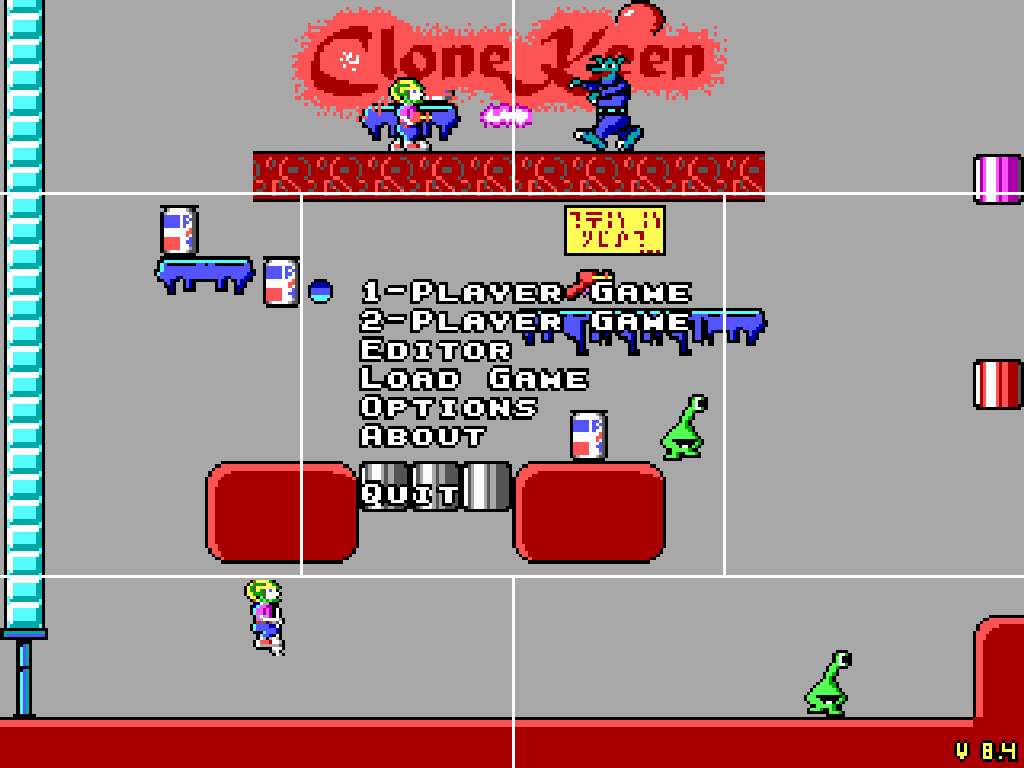
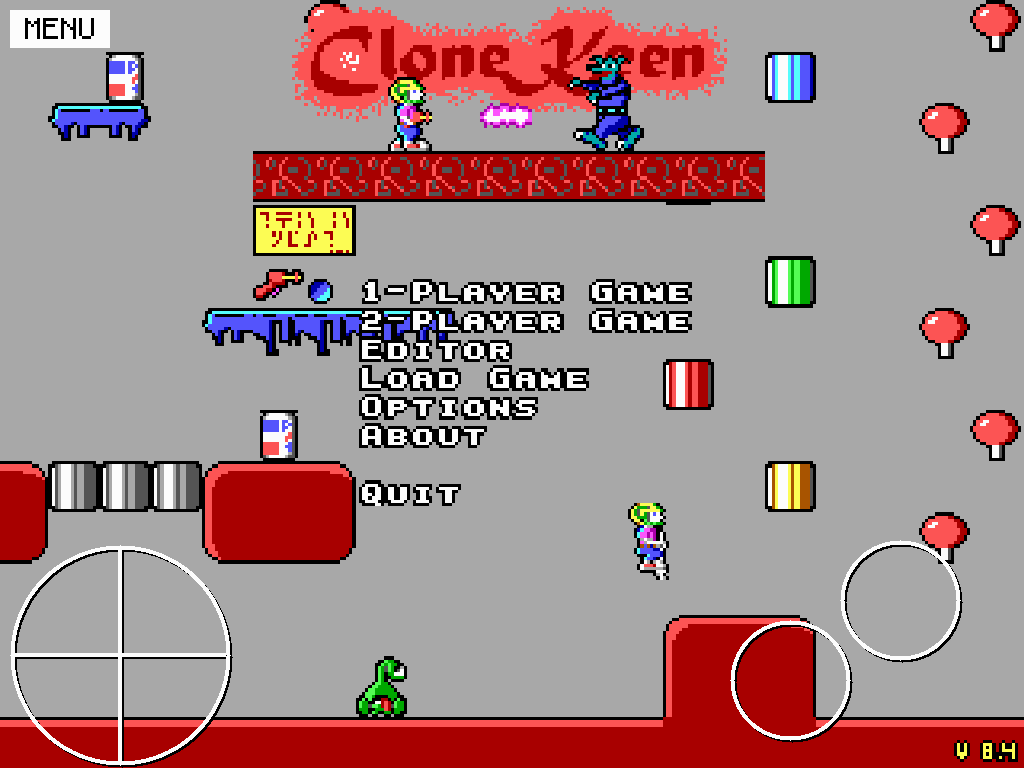
update docs

diff --git a/README.md b/README.md
@@ -1,0 +1,221 @@
+# Commander Keen: Invasion of the Vorticons — HP TouchPad Port
+
+A port of [CloneKeen](https://sourceforge.net/projects/clonekeen/) (the open-source SDL remake of Commander Keen episodes 1–3) to the HP TouchPad running webOS 3.0.5. All three episodes are playable with multi-touch d-pad controls.
+
+---
+
+## Repository Layout
+
+```
+clonekeen/          CloneKeen source — the primary work
+  src/              Game source code
+    platform/       Platform entry points; webos.cpp is the webOS main()
+    sdl/            SDL drivers: keydrv.c (touch input), viddrv.c (rendering)
+  build/webos/      Build and packaging scripts for webOS
+    build-webos.sh  Cross-compile script
+    package-webos.sh  Assemble IPK
+    webos-pkg/      IPK metadata (appinfo.json, CONTROL/)
+    fbuild/webos/   Compiled binary output (generated)
+keen/               Original Keen Dreams Borland C source — reference only
+sdl-sopwith-webos/  Reference webOS PDK app — build structure reference only
+```
+
+---
+
+## Target Platform
+
+| | |
+|---|---|
+| **Device** | HP TouchPad (2011) |
+| **OS** | webOS 3.0.5 (Linux/ARM, kernel 2.6.35) |
+| **CPU** | Qualcomm Snapdragon APQ8060, dual-core Cortex-A8 |
+| **Display** | 1024×768 IPS, landscape |
+| **SDK** | HP webOS PDK — SDL 1.2, SDL_mixer, PDL (`libpdl.so`) |
+
+---
+
+## Build Prerequisites
+
+### 1. Linaro ARM Toolchain
+
+Linaro GCC 4.9.4 for `arm-linux-gnueabi`.
+
+Download from [releases.linaro.org](https://releases.linaro.org/archive/14.09/components/toolchain/binaries/) and unpack somewhere convenient (e.g. `~/linaro-toolchain/`).
+
+Verify: `arm-linux-gnueabi-gcc --version`
+
+Update `TOOLCHAIN_BIN` in `build-webos.sh` if your path differs from `/home/jonwise/linaro-toolchain/bin`.
+
+### 2. HP webOS PDK
+
+The Palm Development Kit provides the device-side SDL 1.2, SDL_mixer, and PDL headers and ARM libraries.
+
+Default install path: `/opt/PalmPDK/`
+
+Key paths used by the build:
+- Headers: `$PDK/include/` and `$PDK/include/SDL/`
+- ARM libraries: `$PDK/device/lib/` (`libSDL.so`, `libSDL_mixer.so`, `libpdl.so`)
+
+### 3. CloneKeen Game Data
+
+The bundled shareware data (episode 1) ships inside the IPK. Extract it before packaging:
+
+```bash
+cd clonekeen
+unzip Releases/Linux/clonekeen-linux.zip -d gamedata-extracted/ -x keen
+```
+
+The packaging script copies everything from `gamedata-extracted/` into the IPK, including the `data/`, `gfx/`, and `custom/` directories.
+
+### 4. novacom (deploy only)
+
+`novacom` is included with the PDK. Used to push files to the TouchPad over USB.
+
+---
+
+## Building and Packaging
+
+```bash
+cd clonekeen/build/webos
+
+# Edit paths if needed
+nano build-webos.sh   # set TOOLCHAIN_BIN and PDK
+
+# Compile
+bash build-webos.sh
+
+# Assemble IPK
+bash package-webos.sh
+```
+
+Output: `clonekeen/build/webos/com.cmdrkeen.game_<version>_armv7.ipk`
+
+The version is read automatically from `webos-pkg/appinfo.json` — bump it there and the IPK filename follows.
+
+**Incremental builds:** `build-webos.sh` skips unchanged `.c` files. Run `rm -rf fbuild/` for a clean build.
+
+---
+
+## Deploying to the TouchPad
+
+Connect the TouchPad via USB with Developer Mode enabled (tap the version number in *Device Info* five times).
+
+```bash
+# Push IPK to device storage
+novacom put file:///media/internal/com.cmdrkeen.game_1.2.0_armv7.ipk \
+    < com.cmdrkeen.game_1.2.0_armv7.ipk
+
+# Install
+novacom run file:///usr/bin/ipkg install \
+    /media/internal/com.cmdrkeen.game_1.2.0_armv7.ipk
+```
+
+The app installs to `/media/cryptofs/apps/usr/palm/applications/com.cmdrkeen.game/`.
+
+### Reading the log
+
+```bash
+novacom run file:///bin/cat \
+    /media/cryptofs/apps/usr/palm/applications/com.cmdrkeen.game/ck.log
+```
+
+You can also launch directly from a novacom shell for live console output:
+
+```bash
+novacom open tty://
+cd /media/cryptofs/apps/usr/palm/applications/com.cmdrkeen.game
+./clonekeen
+```
+
+---
+
+## Commercial Episode Data
+
+The bundled IPK contains only the episode 1 shareware files. To play episodes 2 and 3 you need the original game data files from a legitimate copy of Commander Keen: Invasion of the Vorticons.
+
+### Required files
+
+Place these files in `/media/internal/keen/` on the TouchPad:
+
+| File | Episode |
+|---|---|
+| `EGAHEAD.CK2`, `EGALATCH.CK2`, `EGASPRIT.CK2` | Episode 2 graphics |
+| `EGAHEAD.CK3`, `EGALATCH.CK3`, `EGASPRIT.CK3` | Episode 3 graphics |
+| `LEVEL01.CK2` – `LEVEL16.CK2`, `LEVEL80.CK2`, `LEVEL81.CK2`, `LEVEL90.CK2` | Episode 2 levels |
+| `LEVEL01.CK3` – `LEVEL16.CK3`, `LEVEL80.CK3`, `LEVEL81.CK3`, `LEVEL90.CK3` | Episode 3 levels |
+| `FINALE.CK2`, `FINALE.CK3` | Ending screens |
+
+> **Note on sounds:** The Vorticons trilogy shared one sound engine across all three episodes. `sounds.ck2` and `sounds.ck3` stub files are bundled with CloneKeen in the app's `data/` directory. You do not need `SOUNDS.CK2` or `SOUNDS.CK3` from the original game.
+
+### Pushing files to the device
+
+```bash
+novacom put file:///media/internal/keen/EGAHEAD.CK2 < EGAHEAD.CK2
+novacom put file:///media/internal/keen/EGALATCH.CK2 < EGALATCH.CK2
+# ... repeat for each file
+```
+
+### How the data directory works
+
+At startup, episode 1 always loads from the bundled `data/` directory inside the app (the shareware files). When the player selects episode 2 or 3, `Load_Episode()` in `misc.c` checks at runtime whether `/media/internal/keen/` exists:
+
+- **Directory exists** → episode loads from `/media/internal/keen/`
+- **Directory absent** → falls back to `data/` (episode will fail gracefully if commercial files are missing there)
+
+This means episode 1 shareware always works out of the box, and commercial content is opt-in by placing files on the user-writable `/media/internal` partition.
+
+---
+
+## Architecture Notes
+
+### Rendering
+
+CloneKeen renders into an 8-bit palettized 320×240 SDL surface (`webos_game_surface`). Each frame, `SDL_SoftStretch` scales it to the 1024×768 screen surface, then the touch control overlay is drawn on top, and `SDL_Flip()` presents it. Scale factor is exactly 3.2× (320×3.2 = 1024, 240×3.2 = 768 — no letterboxing).
+
+### Touch Controls
+
+SDL 1.2 on webOS delivers multi-touch as mouse button/motion events. The webOS PDK extends the standard SDL event fields so that `event.button.which` and `event.motion.which` carry the finger index (0–4). `keydrv.c` maintains a per-finger state struct (`WebOSFinger`) tracking which zone each finger is in, which directional keys it's holding, and a 150ms minimum-hold timer to prevent tap-release races.
+
+**Control layout on the 1024×768 screen:**
+
+```
+┌────────────────────────────────────────┐
+│ [MENU]                                 │
+│                                        │
+│                          ( JUMP )      │
+│    (  d-pad  )               ( FIRE )  │
+└────────────────────────────────────────┘
+```
+
+- D-pad: circle centred at (120, 655), radius 110px, deadzone 28px
+- Jump: circle centred at (900, 600), radius 60px
+- Fire: circle centred at (790, 680), radius 60px
+- Menu/ESC: rectangle at top-left (10, 10), 100×38px
+
+All controls are drawn as white outlines with a 2px black drop shadow so they remain visible against any game background.
+
+### Key Files Changed from Upstream CloneKeen
+
+| File | Change |
+|---|---|
+| `src/platform/webos.cpp` | Entry point; detects `/media/internal/keen/` at startup |
+| `src/sdl/viddrv.c` | 1024×768 fullscreen + stretch; touch overlay rendering |
+| `src/sdl/keydrv.c` | Full per-finger multi-touch d-pad input system |
+| `src/globals.c` | `data_dir` runtime variable (webOS only) |
+| `src/keen.h` | `DATA_DIR` macro → runtime `data_dir` pointer on webOS |
+| `src/misc.c` | `Load_Episode()` switches `data_dir` per episode on webOS |
+| `src/sanity.c` | Skips ep2/ep3 file-presence check on webOS |
+| `src/latch.c` | `sprintf` paths updated for runtime `DATA_DIR` |
+| `src/maploader.c` | `sprintf` paths updated for runtime `DATA_DIR` |
+| `src/FinaleScreenLoader.c` | `sprintf` paths updated for runtime `DATA_DIR` |
+| `src/sdl/snddrv.c` | `sprintf` paths updated for runtime `DATA_DIR` |
+| `src/menumanager.c` | UI strings updated for webOS file paths |
+| `build/webos/` | Build and packaging scripts (new) |
+
+---
+
+## Credits
+
+- **CloneKeen** by Caitlin Shaw (2003–2010) — GPL v3
+- **Commander Keen: Invasion of the Vorticons** — id Software / Apogee Software (1990)
+- **webOS TouchPad port** by Jonathan Wise (2026)

diff --git a/CLAUDE.md b/CLAUDE.md
@@ -58,3 +58,89 @@ novacom run file:///usr/bin/ipkg install /media/internal/com.cmdrkeen.game_1.0.0
 ## Status
 
 **Working on device.** Episodes 1–3 load and play. Touch controls functional. See `clonekeen/CLAUDE.md` for architecture details, known limitations, and next steps.
+
+---
+
+## Lessons Learned — Porting SDL Games to webOS
+
+Captured here for future ports. This project benefited from studying emu7800forwebos, sdl-sopwith-webos, and PCSX ReARMed for webOS.
+
+### PDL initialization order matters
+
+Always call PDL before SDL:
+```c
+PDL_Init(0);
+PDL_SetTouchAggression(PDL_AGGRESSION_MORETOUCHES);  // enables multi-touch
+PDL_GesturesEnable(PDL_FALSE);                        // suppress system swipe gestures
+SDL_Init(SDL_INIT_VIDEO | SDL_INIT_AUDIO | ...);
+```
+If `PDL_GesturesEnable(PDL_FALSE)` is omitted, the system gesture layer intercepts screen-edge touches before your app sees them.
+
+### Multi-touch via SDL 1.2
+
+webOS extends SDL 1.2 mouse events with a non-standard `which` field carrying the finger index (0–4). Standard SDL ignores it.
+
+```c
+// In SDL_MOUSEBUTTONDOWN / SDL_MOUSEBUTTONUP:
+int finger = event.button.which;   // 0–4; 0 is also single-touch
+// In SDL_MOUSEMOTION:
+int finger = event.motion.which;
+```
+
+Design implications:
+- Track per-finger state (which zone, which keys held) in a struct array indexed by finger
+- Never release a key when one finger lifts if another finger is still holding the same key — use a `webos_any_holding()` check
+- A minimum-hold timer (~150ms) prevents tap-release races when the game logic and render loop are on separate timings
+
+### 8-bit palettized surfaces and SDL_SoftStretch
+
+If the game renders into an 8-bit surface, create a small off-screen game surface at native resolution and a separate full-screen surface, then stretch each frame:
+
+```c
+// Setup
+screen = SDL_SetVideoMode(1024, 768, 8, SDL_FULLSCREEN);
+game_surface = SDL_CreateRGBSurface(SDL_SWSURFACE, 320, 240, 8, 0,0,0,0);
+
+// Each frame
+SDL_SoftStretch(game_surface, NULL, screen, NULL);
+// draw overlay on screen here
+SDL_Flip(screen);
+```
+
+**Critical:** Any game code that calls `setpixel()`/`getpixel()` must target the small game surface, not the screen surface. `SDL_SoftStretch` overwrites the screen every frame, so anything written directly to `screen` between flips is erased. Point all internal render pointers at the game surface.
+
+Both surfaces must share the same 8-bit palette — call your palette-apply function on both after any palette change.
+
+### Touch overlay on an 8-bit surface
+
+No alpha blending is available on 8-bit surfaces. Draw control overlays using `SDL_FillRect` only, using palette indices directly. Strategy that works well:
+- Draw shapes twice: once in black at +2px offset (shadow), then in white at original position
+- This gives contrast against any game background without transparency
+- For text labels, use hardcoded 5×7 pixel bitmap glyphs rendered with `SDL_FillRect` at 3× scale
+
+### Read-only app filesystem
+
+On webOS, the app's install directory (`/media/cryptofs/apps/...`) is read-only at runtime. Any user-writable data must go to `/media/internal/` (the user storage partition, always writable).
+
+Pattern for handling bundled vs. user-supplied data:
+- Ship required data (shareware, stubs) inside the IPK
+- At episode/level load time, `stat()` check a user directory; if it exists, switch the data path to it
+- Keep this check per-load, not just at startup — different episodes may need different directories
+
+### IPK packaging
+
+An IPK is an `ar` archive with three members: `debian-binary`, `control.tar.gz`, `data.tar.gz`. The data tree must be rooted at `usr/palm/applications/<app-id>/`. No special tools needed beyond `tar` and `ar`.
+
+Read the version from `appinfo.json` in the packaging script rather than hardcoding it:
+```bash
+VERSION=$(grep '"version"' appinfo.json | sed 's/.*"version": *"\([^"]*\)".*/\1/')
+```
+
+### Debugging on device
+
+The game binary runs directly from a novacom shell — you get live stdout. The app also writes a log file to its working directory. Check it with:
+```bash
+novacom run file:///bin/cat /media/cryptofs/apps/usr/palm/applications/<app-id>/ck.log
+```
+
+Add `lprintf()` / `fprintf(stderr, ...)` calls liberally when diagnosing path, stat, or file-open failures — the log is the only debugger you have.
